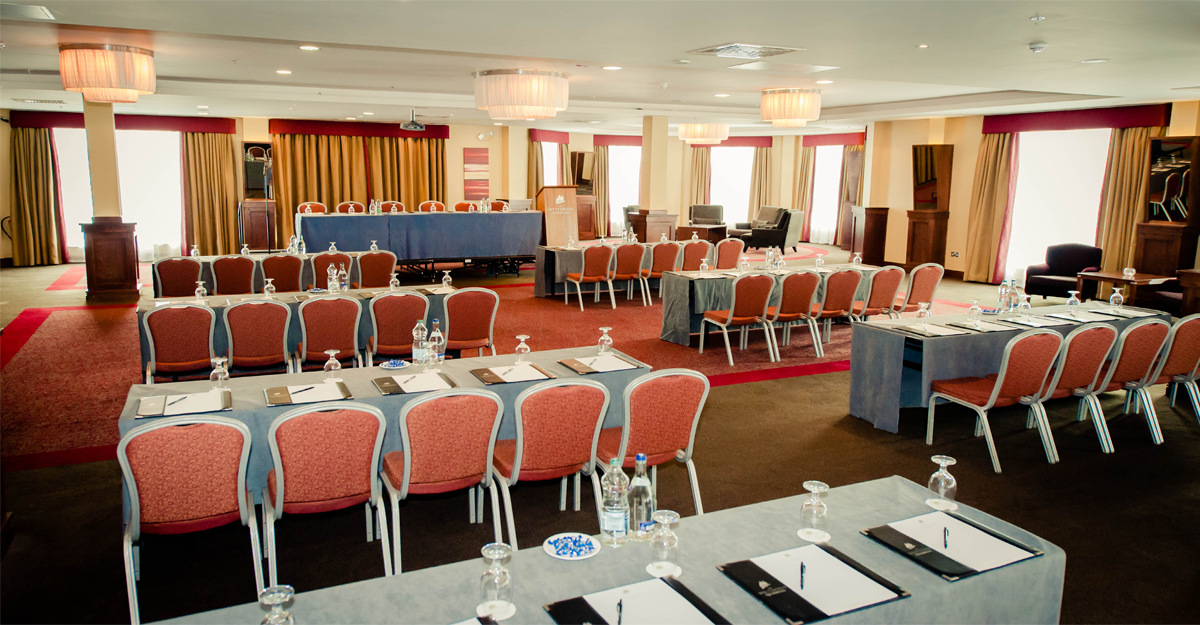
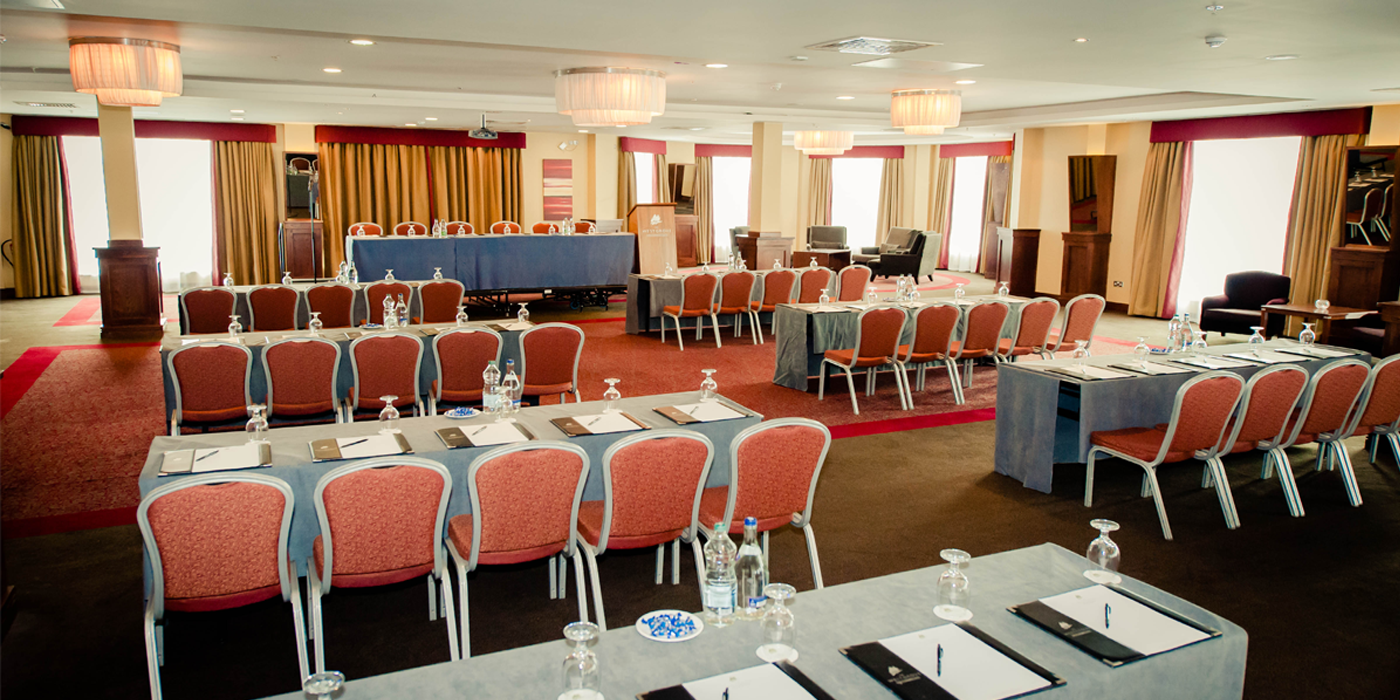
Azure v3

diff --git a/index.html b/index.html
@@ -55,18 +55,18 @@
 
              <div id="slider" class="nivoSlider">
 
-                 <img src="images/header/gym.png" width="1250" height="650" alt="" />
-                 <img src="images/header/bedroom.png" width="1250" height="650" alt="" />
-                 <img src="images/header/weddingrecp.png" width="1250" height="650" alt="" />
-                 <img src="images/header/weddingroom.png" width="1250" height="650" alt="" />
-                 <img src="images/header/conference.png"width="1250" height="650" alt="" />
-                 <img src="images/header/rooftop.png" width="1250" height="650" alt="" />
-                 <img src="images/header/toptable1.png" width="1250" height="650" alt="" />
-                 <img src="images/header/weddingroom.png" width="1250" height="650" alt="" />
-                 <img src="images/header/conference.png" width="1250" height="650" alt="" />
-                 <img src="images/header/rooftop.png" width="1250" height="650" alt="" />
-                 <img src="images/header/bed.png" width="1250" height="650" alt="" />
-                 <img src="images/header/kirby.png" width="1250" height="650" alt="" />
+                 <img src="images/header/gym.png"/>
+                 <img src="images/header/bedroom.png"/>
+                 <img src="images/header/weddingrecp.png"/>
+                 <img src="images/header/weddingroom.png"/>
+                 <img src="images/header/conference.png"/>
+                 <img src="images/header/rooftop.png"/>
+                 <img src="images/header/toptable1.png"/>
+                 <img src="images/header/weddingroom.png"/>
+                 <img src="images/header/conference.png"/>
+                 <img src="images/header/rooftop.png"/>
+                 <img src="images/header/bed.png"/>
+                 <img src="images/header/kirby.png"/>
 
              </div>
 </div>

diff --git a/css/style.css b/css/style.css
@@ -406,15 +406,15 @@ section#main book-room {
     background: url(../images/slider.png) no-repeat;
     margin-top: 30px;
     margin-bottom: 13px;
-    width: 1250px;
-    height: 625px;
+    width: 1400px;
+    height: 700px;
 }
 .slider-wrapper #slider {
     position: absolute;
     top: 18px;
     left: 18.5px;
-    width: 1250px; /* Make sure your images are the same size */
-    height: 625px; /* Make sure your images are the same size */
+    width: 1400px; /* Make sure your images are the same size */
+    height: 700px; /* Make sure your images are the same size */
 }
 .slider-wrapper {
 	position: relative;
